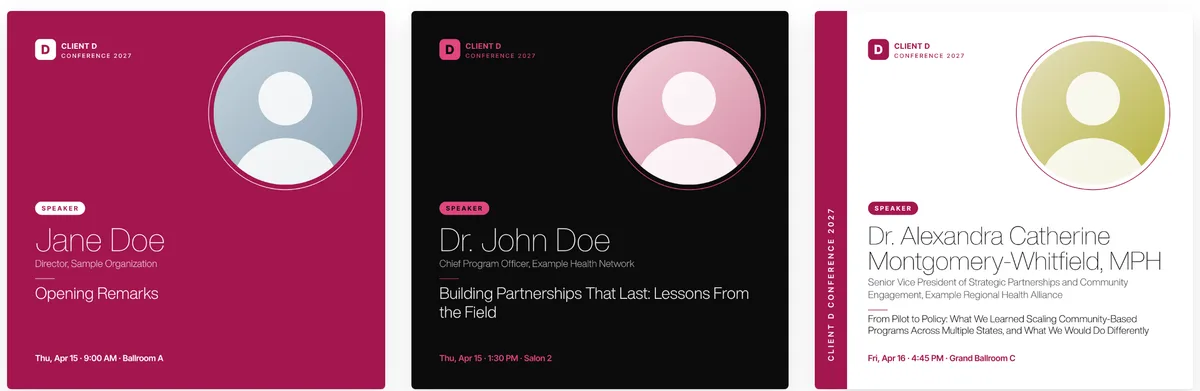
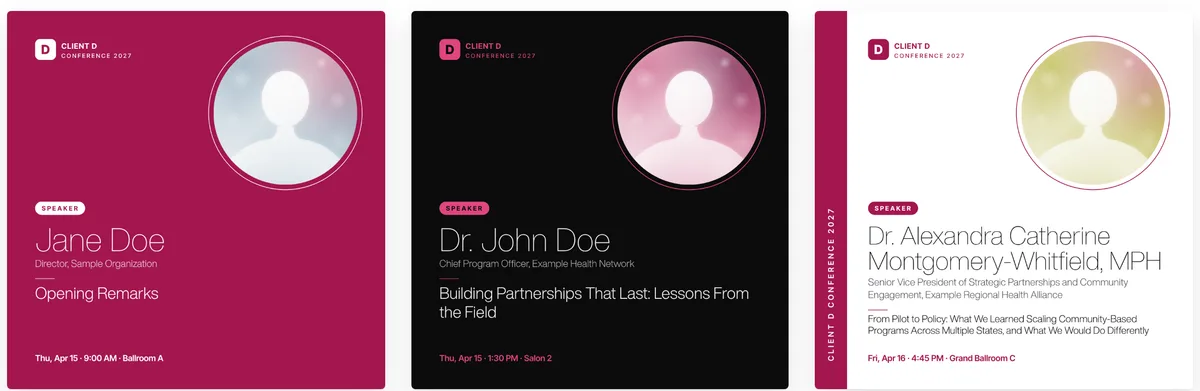
Icy blue tool cards and inbox bar; frosted-glass placeholder portraits in the speaker demo
Claude-Session: https://claude.ai/code/session_017HaibtfYQPNReA1YdU6tnV

Changed region(s): [[0.8325, 0.1228, 0.9867, 0.491], [0.4933, 0.0921, 0.6475, 0.491], [0.1542, 0.1228, 0.3083, 0.4297]]

diff --git a/src/pages/lab/SpeakerGraphic.tsx b/src/pages/lab/SpeakerGraphic.tsx
@@ -24,7 +24,7 @@ const LIVE_TOOL = 'https://fimcon.org/en/speaker-social';
 
 type Speaker = { name: string; role: string; session: string; when: string; room: string };
 
-const EXAMPLES: (Speaker & { template: Template; avatar: [string, string]; caption: string })[] = [
+const EXAMPLES: (Speaker & { template: Template; avatar: [string, string, string]; caption: string })[] = [
   {
     name: 'Jane Doe',
     role: 'Director, Sample Organization',
@@ -32,7 +32,7 @@ const EXAMPLES: (Speaker & { template: Template; avatar: [string, string]; capti
     when: 'Thu, Apr 15 · 9:00 AM',
     room: 'Ballroom A',
     template: 'raspberry',
-    avatar: ['#c9d6df', '#8fa6b6'],
+    avatar: ['#e4edf3', '#8fa6b6', '#d58aa3'],
     caption: 'Short name, short session',
   },
   {
@@ -42,7 +42,7 @@ const EXAMPLES: (Speaker & { template: Template; avatar: [string, string]; capti
     when: 'Thu, Apr 15 · 1:30 PM',
     room: 'Salon 2',
     template: 'noir',
-    avatar: ['#f3d2dc', '#d58aa3'],
+    avatar: ['#f7dde6', '#c4527d', '#772450'],
     caption: 'Typical lengths',
   },
   {
@@ -53,28 +53,105 @@ const EXAMPLES: (Speaker & { template: Template; avatar: [string, string]; capti
     when: 'Fri, Apr 16 · 4:45 PM',
     room: 'Grand Ballroom C',
     template: 'paper',
-    avatar: ['#e8e2c4', '#b5b23a'],
+    avatar: ['#f2eed6', '#b5b23a', '#d58aa3'],
     caption: 'Long name, title, and session',
   },
 ];
 
-/** A neutral silhouette so the demo works before anyone uploads a photo. */
-function sampleAvatar([from, to]: [string, string]): HTMLCanvasElement {
+/** rgba() from a #rrggbb colour. */
+function rgba(hex: string, a: number) {
+  const n = parseInt(hex.slice(1), 16);
+  return `rgba(${(n >> 16) & 255},${(n >> 8) & 255},${n & 255},${a})`;
+}
+
+/**
+ * A placeholder portrait so the demo works before anyone uploads a photo:
+ * soft fields of colour behind a frosted-glass silhouette, with a little grain.
+ * Abstract on purpose; no real person is depicted.
+ */
+function sampleAvatar([light, mid, deep]: [string, string, string]): HTMLCanvasElement {
+  const S = 800;
   const c = document.createElement('canvas');
-  c.width = c.height = 800;
+  c.width = c.height = S;
   const g = c.getContext('2d')!;
-  const grad = g.createLinearGradient(0, 0, 800, 800);
-  grad.addColorStop(0, from);
-  grad.addColorStop(1, to);
-  g.fillStyle = grad;
-  g.fillRect(0, 0, 800, 800);
-  g.fillStyle = 'rgba(255,255,255,0.85)';
+
+  const base = g.createLinearGradient(0, 0, S, S);
+  base.addColorStop(0, light);
+  base.addColorStop(1, mid);
+  g.fillStyle = base;
+  g.fillRect(0, 0, S, S);
+
+  const field = (x: number, y: number, r: number, color: string, a: number) => {
+    const rg = g.createRadialGradient(x, y, 0, x, y, r);
+    rg.addColorStop(0, rgba(color, a));
+    rg.addColorStop(1, rgba(color, 0));
+    g.fillStyle = rg;
+    g.fillRect(0, 0, S, S);
+  };
+  field(660, 120, 460, deep, 0.8);
+  field(110, 640, 420, '#ffffff', 0.5);
+  field(600, 720, 380, light, 0.7);
+  field(170, 150, 320, mid, 0.55);
+  field(400, 320, 300, '#ffffff', 0.4); // light behind the head
+
+  // Soft points of light, like a lens out of focus.
+  for (const [x, y, r, a] of [
+    [150, 210, 70, 0.35],
+    [690, 330, 54, 0.3],
+    [600, 120, 34, 0.4],
+    [110, 430, 40, 0.25],
+    [710, 560, 80, 0.2],
+  ]) {
+    field(x, y, r, '#ffffff', a);
+  }
+
+  // Frosted-glass bust: one shape (head and shoulders), translucent white with a soft glow.
+  const glass = g.createLinearGradient(0, 170, 0, S);
+  glass.addColorStop(0, 'rgba(255,255,255,0.8)');
+  glass.addColorStop(0.55, 'rgba(255,255,255,0.58)');
+  glass.addColorStop(1, 'rgba(255,255,255,0.3)');
+  g.save();
+  g.shadowColor = 'rgba(255,255,255,0.75)';
+  g.shadowBlur = 22;
+  g.fillStyle = glass;
   g.beginPath();
-  g.arc(400, 320, 150, 0, Math.PI * 2);
+  g.moveTo(30, S + 20);
+  g.bezierCurveTo(40, 650, 190, 562, 316, 544);
+  g.quadraticCurveTo(352, 532, 354, 476);
+  g.lineTo(446, 476);
+  g.quadraticCurveTo(448, 532, 484, 544);
+  g.bezierCurveTo(610, 562, 760, 650, 770, S + 20);
+  g.closePath();
+  g.moveTo(532, 322);
+  g.ellipse(400, 322, 132, 156, 0, 0, Math.PI * 2);
   g.fill();
+  g.restore();
+  // Highlight on the upper left of the head and a light sweep across the frame.
+  const hi = g.createRadialGradient(348, 256, 0, 348, 256, 130);
+  hi.addColorStop(0, 'rgba(255,255,255,0.55)');
+  hi.addColorStop(1, 'rgba(255,255,255,0)');
+  g.fillStyle = hi;
   g.beginPath();
-  g.ellipse(400, 820, 300, 280, 0, Math.PI, 0);
+  g.ellipse(400, 322, 132, 156, 0, 0, Math.PI * 2);
   g.fill();
+  const sweep = g.createLinearGradient(0, 0, S, S);
+  sweep.addColorStop(0.3, 'rgba(255,255,255,0)');
+  sweep.addColorStop(0.45, 'rgba(255,255,255,0.16)');
+  sweep.addColorStop(0.6, 'rgba(255,255,255,0)');
+  g.fillStyle = sweep;
+  g.fillRect(0, 0, S, S);
+
+  // Fine grain, seeded so every render matches.
+  const img = g.getImageData(0, 0, S, S);
+  let seed = 7;
+  for (let i = 0; i < img.data.length; i += 4) {
+    seed = (seed * 16807) % 2147483647;
+    const n = ((seed / 2147483647) - 0.5) * 16;
+    img.data[i] += n;
+    img.data[i + 1] += n;
+    img.data[i + 2] += n;
+  }
+  g.putImageData(img, 0, 0);
   return c;
 }
 
@@ -265,7 +342,7 @@ export default function SpeakerGraphic() {
     dx: 0,
     dy: 0,
   });
-  const [avatarColors, setAvatarColors] = useState<[string, string]>(first.avatar);
+  const [avatarColors, setAvatarColors] = useState<[string, string, string]>(first.avatar);
   const [photo, setPhoto] = useState<Photo | null>(null);
   const [fontsReady, setFontsReady] = useState(false);
   const drag = useRef<{ x: number; y: number; dx: number; dy: number } | null>(null);

diff --git a/src/styles/home.css b/src/styles/home.css
@@ -1148,8 +1148,9 @@
   align-items: center;
   gap: 14px;
   padding: 11px 16px;
-  background: var(--accent-soft);
-  border-bottom: 1px solid var(--line);
+  background: linear-gradient(180deg, #eef3f6 0%, #dfe8ee 100%);
+  border-bottom: 1px solid #d3dee6;
+  color: #1b1a1e;
 }
 .inbox__dots i {
   display: inline-block;
@@ -1157,7 +1158,7 @@
   height: 10px;
   border-radius: 50%;
   margin-right: 6px;
-  background: color-mix(in srgb, var(--accent) 28%, transparent);
+  background: #b5c6d2;
 }
 .inbox__name {
   font-family: var(--font-name);
@@ -1172,11 +1173,11 @@
   margin-left: auto;
   min-width: 200px;
   padding: 5px 14px;
-  border: 1px solid var(--line);
+  border: 1px solid #d3dee6;
   border-radius: 999px;
-  background: var(--bg);
+  background: #fff;
   font-size: 12.5px;
-  color: var(--ink-faint);
+  color: #8d8992;
 }
 .inbox__body {
   display: grid;
@@ -1391,7 +1392,7 @@
   place-items: center;
   aspect-ratio: 16 / 11;
   padding: 22px;
-  background: linear-gradient(160deg, #fbeef2 0%, #efd3de 100%);
+  background: linear-gradient(160deg, #f4f8fa 0%, #d6e2ea 100%);
 }
 .tcard__media {
   overflow: hidden;
@@ -1401,7 +1402,7 @@
   width: 100%;
   height: 100%;
   object-fit: contain;
-  filter: drop-shadow(0 14px 20px rgba(60, 20, 40, 0.28));
+  filter: drop-shadow(0 14px 20px rgba(40, 60, 80, 0.28));
   transition: transform 0.4s var(--ease);
 }
 /* Tall screenshots fill the frame from the top instead of shrinking. */
@@ -1410,7 +1411,7 @@
   object-position: top center;
   border-radius: 8px;
   filter: none;
-  box-shadow: 0 16px 30px -18px rgba(60, 20, 40, 0.5);
+  box-shadow: 0 16px 30px -18px rgba(40, 60, 80, 0.5);
 }
 .tcard:hover .tcard__media img {
   transform: scale(1.03);
